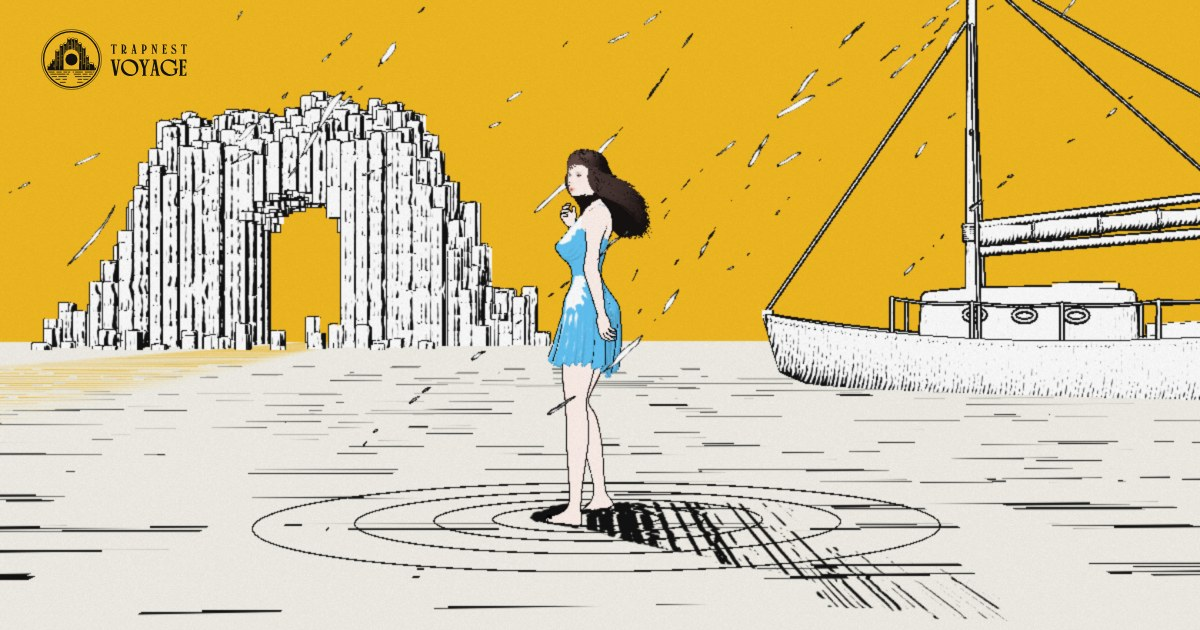
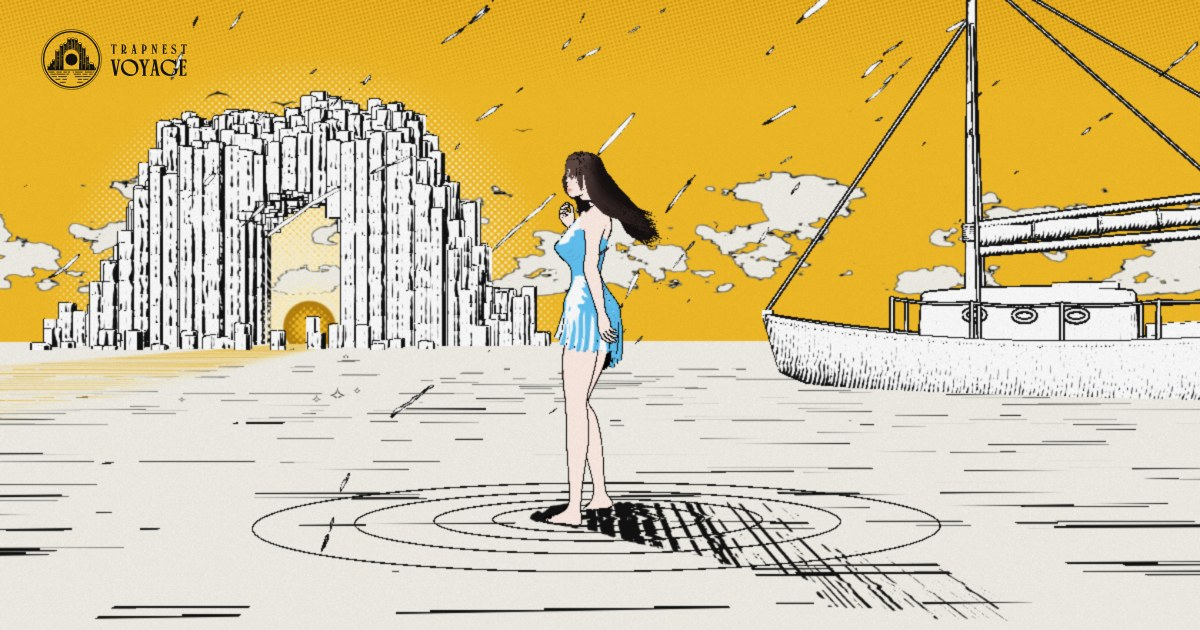
Social card: the finale's new sky (og.jpg v=11)
Recaptured from the engine at the same moment (ColosseumScene+2.1, 1200x630
at 2x) with scripts/brand/capture.mjs and build_og.mjs: the last sun now
glows in the arch, clouds drift along the horizon and gulls cross the sky.
The image alt text names the sun in the arch.

Claude-Session: https://claude.ai/code/session_01Q26Y8E9LacCb4h5JmWxDVB

diff --git a/index.html b/index.html
@@ -26,14 +26,14 @@
     <meta property="og:url" content="https://voyage.henrywithu.com/" />
     <meta
       property="og:image"
-      content="https://voyage.henrywithu.com/assets/social/trapnest-voyage-og.jpg?v=10"
+      content="https://voyage.henrywithu.com/assets/social/trapnest-voyage-og.jpg?v=11"
     />
     <meta property="og:image:type" content="image/jpeg" />
     <meta property="og:image:width" content="1200" />
     <meta property="og:image:height" content="630" />
     <meta
       property="og:image:alt"
-      content="Chaewon standing barefoot on a still sea beneath a golden sky, a basalt sea arch behind her and her sloop at her side"
+      content="Chaewon standing barefoot on a still sea beneath a golden sky, the last sun glowing in a basalt sea arch behind her and her sloop at her side"
     />
     <meta property="og:locale" content="en_US" />
     <meta name="twitter:card" content="summary_large_image" />
@@ -47,11 +47,11 @@
     />
     <meta
       name="twitter:image"
-      content="https://voyage.henrywithu.com/assets/social/trapnest-voyage-og.jpg?v=10"
+      content="https://voyage.henrywithu.com/assets/social/trapnest-voyage-og.jpg?v=11"
     />
     <meta
       name="twitter:image:alt"
-      content="Chaewon standing barefoot on a still sea beneath a golden sky, a basalt sea arch behind her and her sloop at her side"
+      content="Chaewon standing barefoot on a still sea beneath a golden sky, the last sun glowing in a basalt sea arch behind her and her sloop at her side"
     />
     <title>Trapnest Voyage — The Trapnest Experience</title>
     <link rel="icon" href="/favicon.ico" sizes="16x16 32x32 48x48" />
@@ -68,7 +68,7 @@
         "@type": "WebSite",
         "name": "Trapnest Voyage",
         "url": "https://voyage.henrywithu.com/",
-        "image": "https://voyage.henrywithu.com/assets/social/trapnest-voyage-og.jpg?v=10",
+        "image": "https://voyage.henrywithu.com/assets/social/trapnest-voyage-og.jpg?v=11",
         "isPartOf": {
           "@type": "WebSite",
           "name": "Trapnest",
